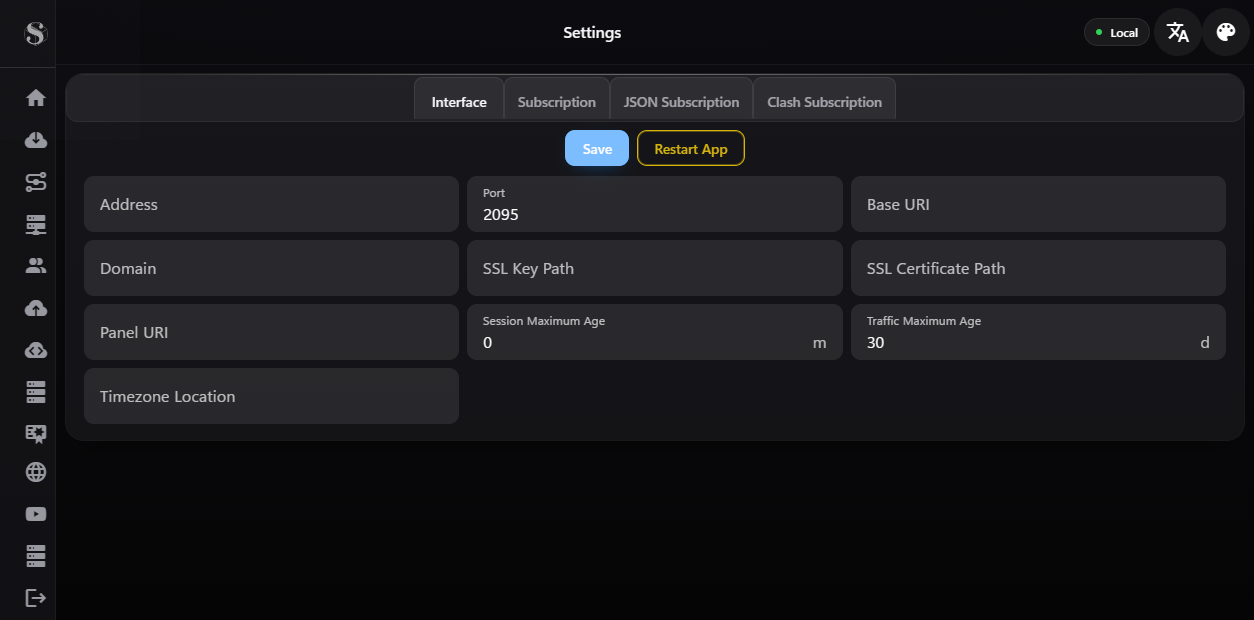
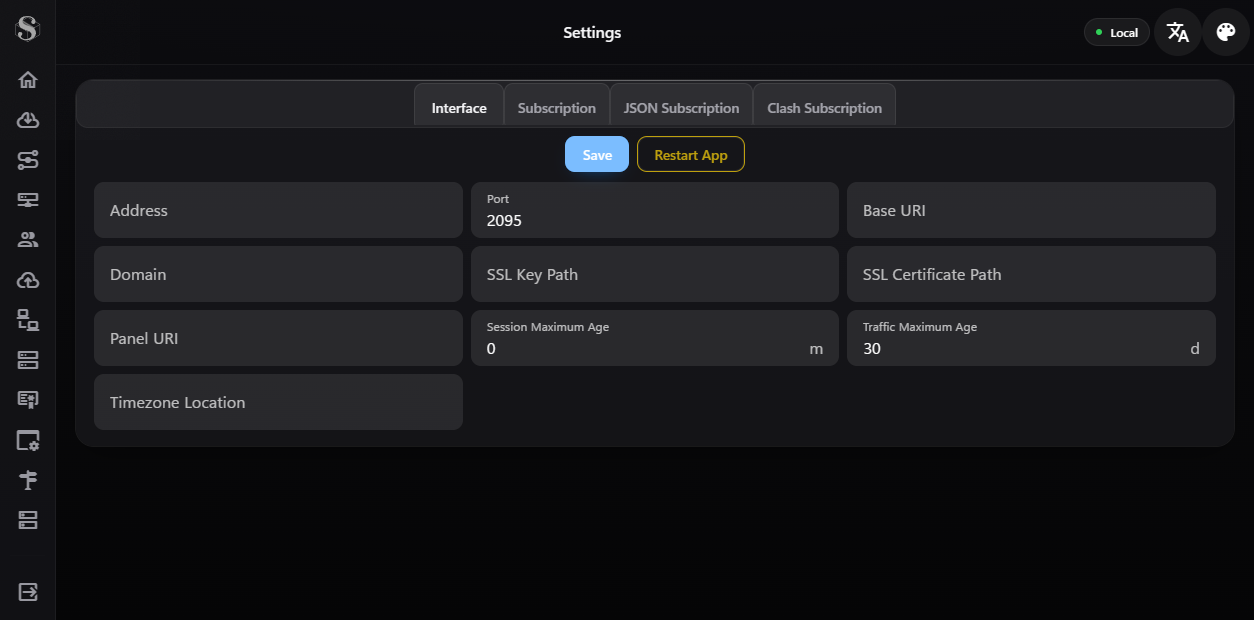
前端：侧栏分组与线性图标、内容区限宽居中、移除全局副标题灰线

diff --git a/README.md b/README.md
@@ -140,4 +140,13 @@ token 在面板「服务器」页新增节点时生成，只显示一次。
 
 预览图：`docs/preview/`（home / inbounds / clients / dialog / settings）。
 
-仍可继续的布局级改造（需要动模板，风险和工时都更大）：侧栏加分组标题与文字标签、内容区限宽居中、图标体系换成线性单色。
+### 布局层
+
+- **侧栏**：14 项平铺拆成 概览 / 节点 / 出站 / 系统 四组，带分组标题；图标换成 MDI 线性（outline）变体；
+  收起时只留图标，悬停展开才出文字（`--rail` 类在悬停时仍然存在，隐藏规则要用 `:not(--is-hovering)` 排除）。
+- **内容区**：`View.vue` 里加 `.page-shell`，限宽 1240px 居中，宽屏上不再贴着左边缘散开。
+- **清掉一条历史包袱**：`Default.vue` 里曾有全局 `.v-card-subtitle { text-align:center; border-bottom:1px solid gray }`，
+  它让每张卡片的副标题都变成一条"灰线标题"——这才是廉价感最直接的来源之一。
+
+踩坑：抽屉内容区默认是 `display:block`，直接给列表加 `flex/overflow` 不生效，必须先让
+`.v-navigation-drawer__content` 变成 flex 列，列表才能真正滚动；否则 14 项会被裁掉一半。
